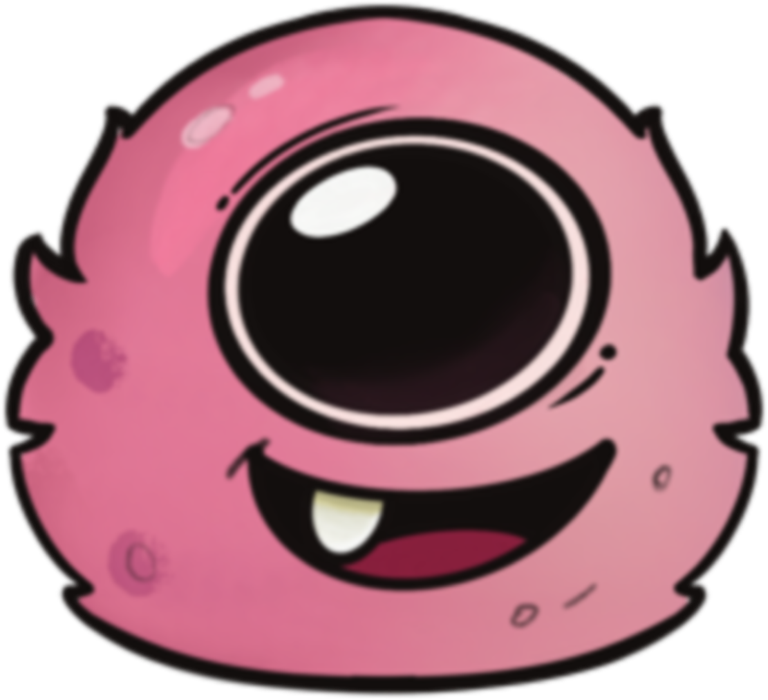
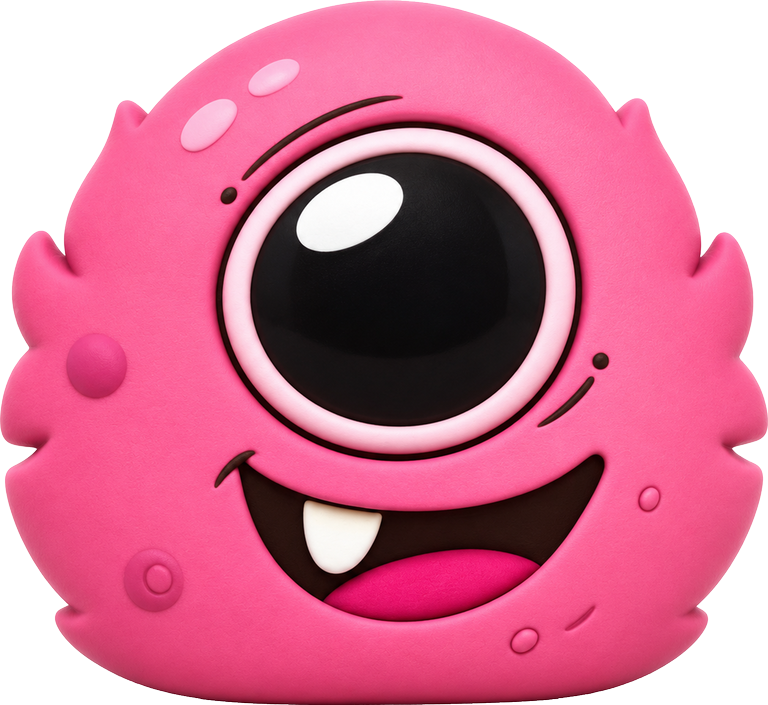
Replace monster art with the 3D rubber set and add an idle blink
- New 3D sprites for all 7 tiers, cropped tight and resized to 768px max.
- Each tier also gets 3 blink frames (half closed, closed, half open) from
  the art's own frames, all the same pixel size as the open sprite.
- New BlinkSprite plays a blink every 2.5-6 s at a random offset per
  monster, with an occasional double blink. Used in the jar and under the UFO.
- Sizes and colliders are unchanged: radius formula untouched and each sprite
  is still scaled so its width equals its collider diameter.

diff --git a/assets/monsters/README.md b/assets/monsters/README.md
@@ -1,18 +1,20 @@
 # Monster sprites
 
-Put the 7 monster PNGs here with these exact names:
+Each tier has an eyes-open sprite plus 3 blink frames:
 
-| File | Monster |
+| File | What it is |
 |---|---|
-| `tier_1.png` | Tier 1, tiny dot |
-| `tier_2.png` | Tier 2 |
-| `tier_3.png` | Tier 3 |
-| `tier_4.png` | Tier 4 |
-| `tier_5.png` | Tier 5 |
-| `tier_6.png` | Tier 6 |
-| `tier_7.png` | Tier 7, big boss |
+| `tier_N.png` | Tier N, eyes open (used everywhere, including the HUD) |
+| `tier_N_blink_1.png` | eyes half closed |
+| `tier_N_blink_2.png` | eyes closed |
+| `tier_N_blink_3.png` | eyes half open again |
+
+Tier 1 is the tiny dot, Tier 7 the big boss.
 
 Tips:
-- Transparent background, monster centred, roughly round, with little empty space around it.
-- Sprites here are cropped to the monster and resized to 768px max. The game scales each one to its tier size.
+- Transparent background, monster centred, cropped tight, resized to 768px max.
+- All 4 files of a tier must be exactly the same pixel size, or the blink will jump.
+- The game scales each tier so its width matches its collider, so swapping art never changes the in-game size.
+- If a tier's blink frames are missing, that monster just doesn't blink.
 - Sizes follow `docs/size_chart.png`; sizes and points per tier live in `scripts/tier_data.gd`.
+- Blink speed and timing live in `scripts/blink_sprite.gd`.
